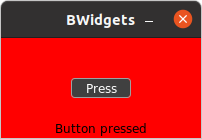
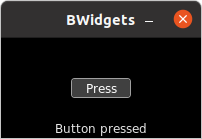
buttontest simplified

diff --git a/examples/buttontest.cpp b/examples/buttontest.cpp
@@ -22,36 +22,41 @@ using namespace BWidgets;
 using namespace BStyles;
 using namespace BEvents;
 
+Window window (200, 100, 0);  // Creates an empty window with size 200 x 100
+
+Label label ("Button pressed"); // Creates a label with the text
+                                // "Button pressed" and optimized size.
+
+TextButton button (70, 40, 60, 20, "Press");    // Creates a text Button at 
+                                                // position 70, 40 with the 
+                                                // size 60 x 20 and the text 
+                                                // "Press".
+
 
 void valueChangedCallback (BEvents::Event* event)
 {
-    ValueChangeTypedEvent<bool>* e = dynamic_cast<ValueChangeTypedEvent<bool>*>(event);
-    if (e->getValue()) e->getWidget()->getMainWindow()->setBackground (redFill);
-    else e->getWidget()->getMainWindow()->setBackground (blackFill);
+    ValueChangeTypedEvent<bool>* e =                        // Cast type of
+        dynamic_cast<ValueChangeTypedEvent<bool>*>(event);  // event
+
+    if (e)
+    {
+        if (e->getValue()) label.show();                    // Show if press
+        else label.hide();                                  // Otherwise hide
+    }
+   
 }
 
 int main ()
 {
-    Window window;  // Creates an empty window with default size
-
-    Label label ("Button pressed"); // Creates a label with the text
-                                    // "Button pressed" and optimized size.
-
-    TextButton button (70, 40, 60, 20, "Press"); // Creates a text Button
-                                                 // at position 70, 40 with
-                                                 // the size 60 x 20 and
-                                                 // the text "Press".
-
     window.add (&label);     // Adds the label to the window.
     window.add (&button);    // Adds the button to the window. 
 
-    label.setTxColors (ColorMap ({black})); // Black label on ...
-    window.setBackground (blackFill);       // black window background
-    
+    label.hide ();                                  // Hide on start.
     label.moveTo (label.center(), label.bottom ()); // Move label to bottom
                                                     // center.
 
-    button.setCallbackFunction (Event::VALUE_CHANGED_EVENT, valueChangedCallback);
+    button.setCallbackFunction  (Event::VALUE_CHANGED_EVENT,    // Set callback
+                                 valueChangedCallback);         // function
 
     window.run();
 }

diff --git a/BWidgets/README.md b/BWidgets/README.md
@@ -32,7 +32,7 @@ Widgets can be decorated using styles.
 
 2. Create a main window object.
    ```
-   Window window;  // Creates an empty window with default size
+   Window window (200, 100, 0);  // Creates an empty window with size 200 x 100
    ```
 
 3. Create the widget objects you need.
@@ -46,8 +46,8 @@ Widgets can be decorated using styles.
                                                 // the text "Press".
    ```
 
-4. Add the widgets to the main window (or to other widgets which are (or will 
-be) added to the main window).
+4. Inside `int main()`, add the widgets to the main window (or to other 
+widgets which are (or will be) added to the main window).
    ```
    window.add (&label);     // Adds the label to the window.
    window.add (&button);    // Adds the button to the window.
@@ -56,9 +56,6 @@ be) added to the main window).
 
 5. Optional, change widget attributes and change decoration.
    ```
-   label.setTxColors (ColorMap ({black})); // Black label on ...
-   window.setBackground (blackFill);       // black window background
-                                           // => Text invisible.
    
    label.moveTo (label.center(), label.bottom ()); // Move label to bottom
                                                    // center.
@@ -70,21 +67,21 @@ be) added to the main window).
    ```
    void valueChangedCallback (BEvents::Event* event)
    {
-      // Convert event to ValueChangeTypedEvent<bool>* 
-      ValueChangeTypedEvent<bool>* e = dynamic_cast<ValueChangeTypedEvent<bool>*>(event);
+       ValueChangeTypedEvent<bool>* e =                        // Cast type of
+           dynamic_cast<ValueChangeTypedEvent<bool>*>(event);  // event
 
-      // Set red background if button value is true (pressed) => Text becomes
-      // visible.
-      if (e->getValue()) e->getWidget()->getMainWindow()->setBackground (redFill);
-
-      // Otherwise set black background => text becomes invisible
-      else e->getWidget()->getMainWindow()->setBackground (blackFill);
+       if (e)
+       {
+           if (e->getValue()) label.show();                    // Show if press
+           else label.hide();                                  // Otherwise hide
+       } 
    }
    ```
 
    Then link this callback function.
    ```
-   button.setCallbackFunction (Event::VALUE_CHANGED_EVENT, valueChangedCallback);
+   button.setCallbackFunction (Event::VALUE_CHANGED_EVENT, 
+                               valueChangedCallback);
    ```
 
 7. For standalone applications, process until the main window will be closed.
